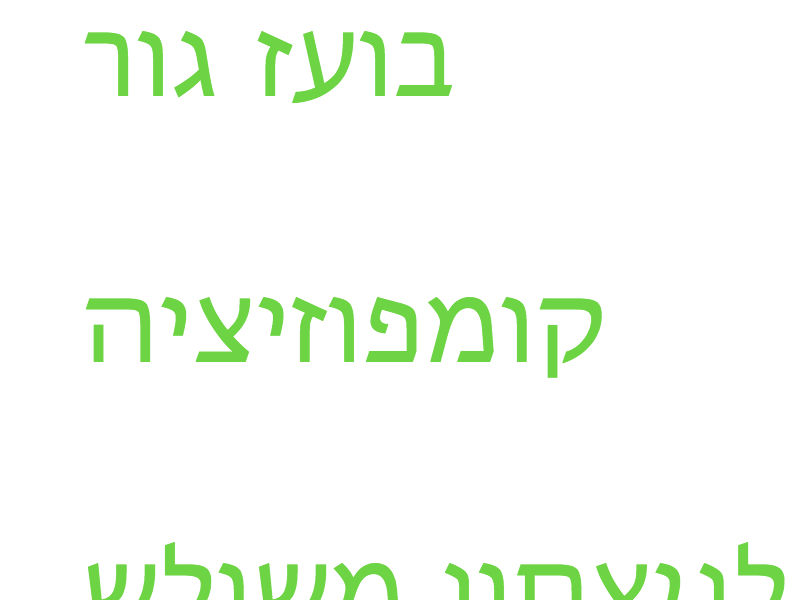
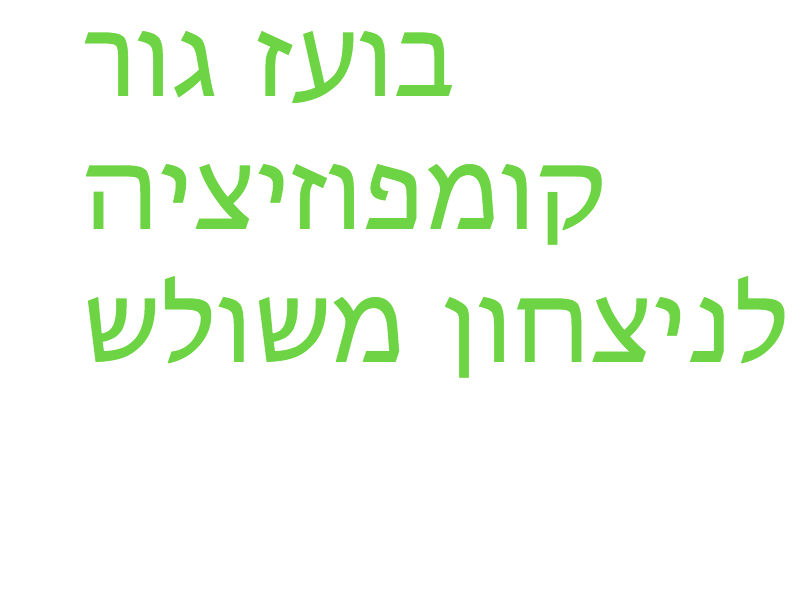
100% photos

diff --git a/www/index.html b/www/index.html
@@ -21,7 +21,7 @@ setInterval(switchImage, 2000);
 		    <img src="img/1.jpg" width="100%"/>
 		    <img src="img/2.jpg" width="100%"/>
 		    <img src="img/3.jpg" width="100%"/>
-			<img src="img/4.jpg" width="50%"/>
+			<img src="img/4.jpg" width="100%"/>
 		</div>
 	</body>
 </html>
